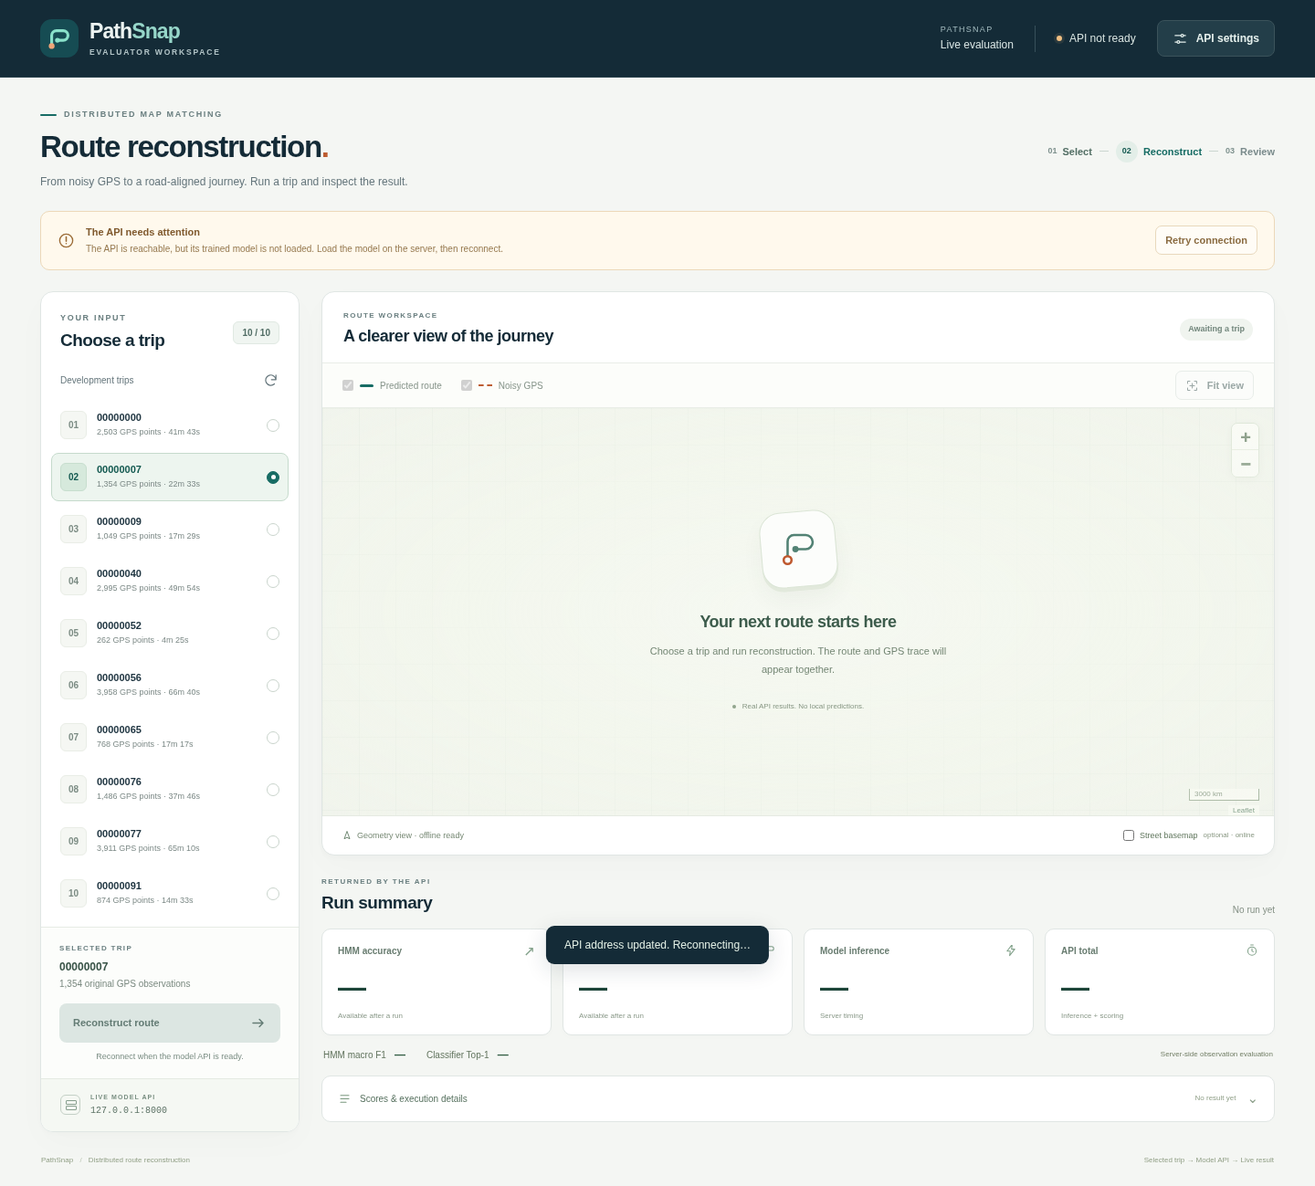
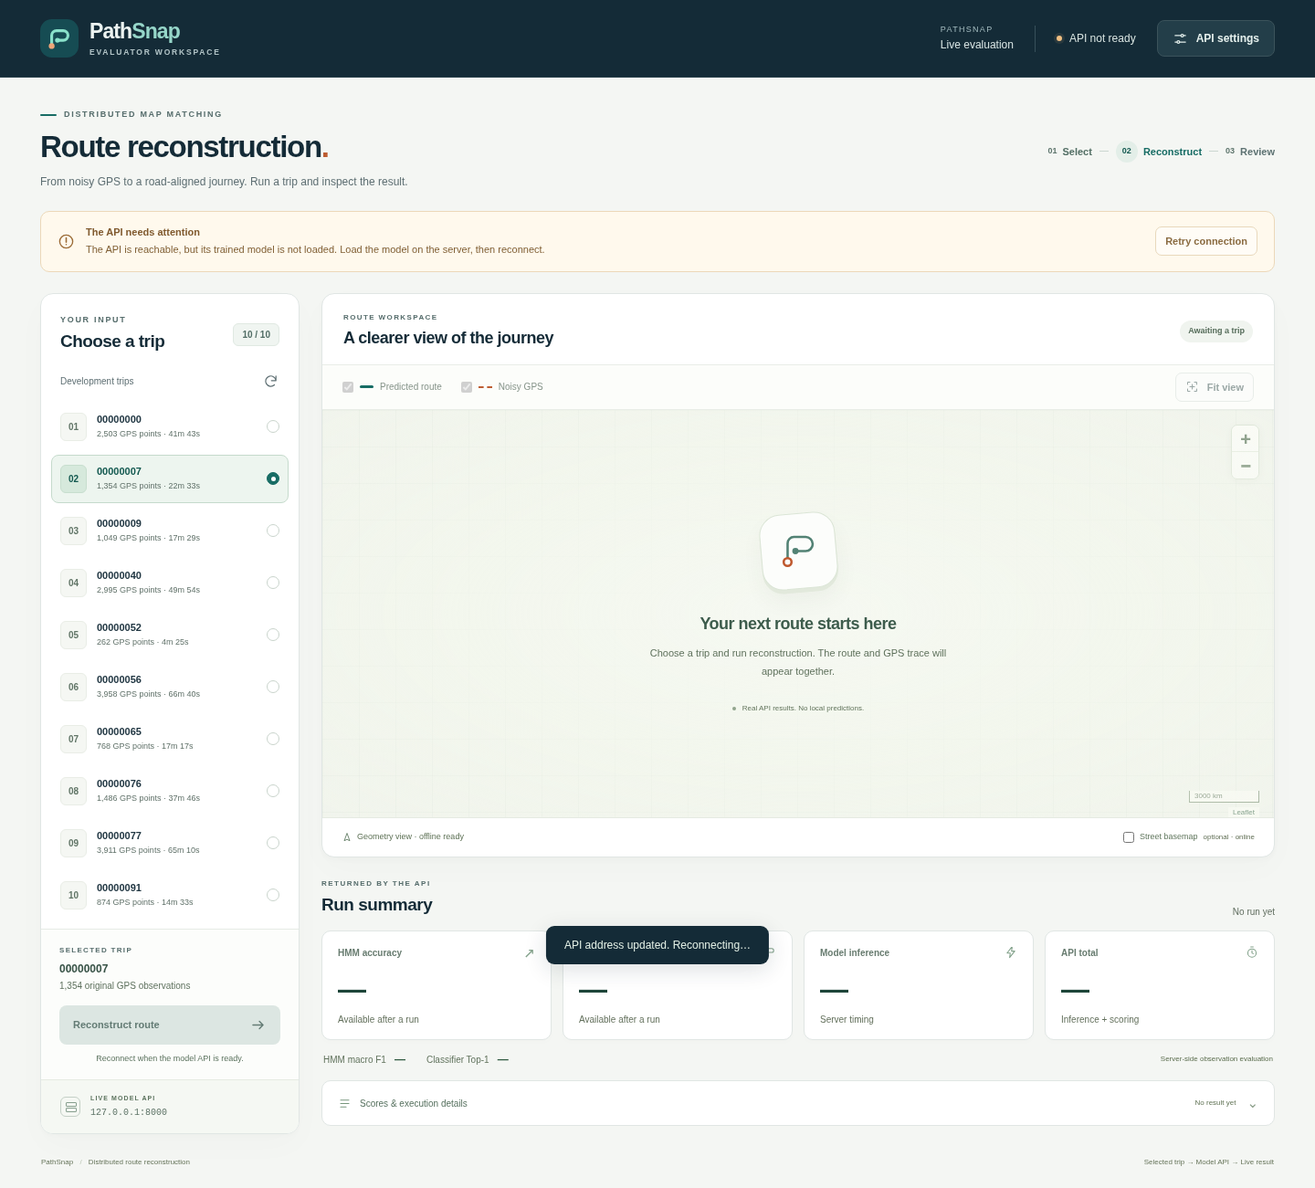
fix: improve evaluator text contrast and record actual responsive checks

diff --git a/frontend/styles.css b/frontend/styles.css
@@ -2,7 +2,7 @@
 :root {
   --navy: #142b37;
   --ink: #203642;
-  --muted: #65767c;
+  --muted: #5e6f73;
   --subtle: #849198;
   --teal: #176c64;
   --teal-dark: #12584f;
@@ -76,15 +76,15 @@ h1, h2, h3 { font-weight: 650; }
 .icon-button:disabled { opacity: .45; }
 .workspace { max-width: 1568px; margin: 0 auto; padding: 34px 44px 0; }
 .page-intro { display: flex; justify-content: space-between; align-items: center; gap: 24px; margin-bottom: 29px; }
-.eyebrow { display: flex; align-items: center; gap: 8px; color: #6a7f80; font-size: 9px; font-weight: 700; line-height: 1.5; letter-spacing: 1.7px; }
+.eyebrow { display: flex; align-items: center; gap: 8px; color: #566d6c; font-size: 9px; font-weight: 700; line-height: 1.5; letter-spacing: 1.7px; }
 .eyebrow-line { width: 18px; height: 2px; border-radius: 2px; background: var(--teal); }
 h1 { margin-top: 7px; color: var(--navy); font-size: clamp(27px, 2.3vw, 35px); font-weight: 660; letter-spacing: -1.35px; line-height: 1.24; }
 .title-period { color: var(--orange); }
 .intro-copy { color: var(--muted); font-size: 12px; margin-top: 9px; }
 .workflow { list-style: none; display: flex; align-items: center; margin: 5px 0 0; padding: 0; gap: 26px; }
-.workflow li { display: flex; gap: 6px; align-items: center; color: #7a8b8c; font-size: 11px; font-weight: 550; white-space: nowrap; position: relative; }
+.workflow li { display: flex; gap: 6px; align-items: center; color: #5d7272; font-size: 11px; font-weight: 550; white-space: nowrap; position: relative; }
 .workflow li+li::before { content: ""; position: absolute; left: -18px; width: 10px; height: 1px; background: #cbd6d0; }
-.workflow li>span { font-size: 9px; font-variant-numeric: tabular-nums; color: #7e918e; border-radius: 50%; }
+.workflow li>span { font-size: 9px; font-variant-numeric: tabular-nums; color: #5e756d; border-radius: 50%; }
 .workflow .is-current { color: var(--teal); }
 .workflow .is-current>span { display: inline-flex; justify-content: center; align-items: center; width: 24px; height: 24px; background: #e3eee8; color: var(--teal-dark); }
 .workflow .is-done { color: #536f65; }
@@ -105,38 +105,38 @@ h1 { margin-top: 7px; color: var(--navy); font-size: clamp(27px, 2.3vw, 35px); f
 .trip-option:has(input:focus-visible) { outline: 3px solid #ba6a35; outline-offset: 1px; }
 .trip-option:has(input:disabled) { cursor: not-allowed; opacity: .66; }
 .trip-option input { position: absolute; opacity: 0; width: 1px; height: 1px; }
-.trip-ordinal { display: flex; align-items: center; justify-content: center; width: 29px; height: 31px; flex: 0 0 29px; background: #f5f7f3; border: 1px solid #e9ede6; border-radius: 6px; font-size: 10px; font-weight: 650; color: #7c8c84; font-variant-numeric: tabular-nums; }
+.trip-ordinal { display: flex; align-items: center; justify-content: center; width: 29px; height: 31px; flex: 0 0 29px; background: #f5f7f3; border: 1px solid #e9ede6; border-radius: 6px; font-size: 10px; font-weight: 650; color: #617567; font-variant-numeric: tabular-nums; }
 .trip-copy { min-width: 0; flex: 1; display: flex; flex-direction: column; gap: 2px; }
 .trip-id { font-size: 11px; font-weight: 650; overflow-wrap: anywhere; line-height: 1.35; }
-.trip-metadata { color: #7d8a87; font-size: 9px; font-variant-numeric: tabular-nums; }
+.trip-metadata { color: #61726a; font-size: 9px; font-variant-numeric: tabular-nums; }
 .trip-radio { width: 14px; height: 14px; flex: 0 0 14px; border: 1px solid #c9d4cc; border-radius: 50%; position: relative; }
 .trip-option:has(input:checked) .trip-radio { background: var(--teal); border-color: var(--teal); }
 .trip-option:has(input:checked) .trip-radio::after { content: ""; position: absolute; width: 5px; height: 5px; background: white; border-radius: 50%; top: 3.5px; left: 3.5px; }
-.list-state { min-height: 260px; padding: 30px 16px; display: flex; flex-direction: column; align-items: center; justify-content: center; gap: 12px; color: #72857e; text-align: center; font-size: 12px; }
+.list-state { min-height: 260px; padding: 30px 16px; display: flex; flex-direction: column; align-items: center; justify-content: center; gap: 12px; color: #5a7164; text-align: center; font-size: 12px; }
 .list-state strong { color: #435d53; font-size: 13px; }
 .list-state .button { margin-top: 5px; }
 .trip-run-area { border-top: 1px solid #e6ebe5; background: #fcfdfb; padding: 17px 20px 16px; }
 .selected-summary { display: flex; flex-direction: column; gap: 2px; margin-bottom: 14px; }
 .selected-summary .eyebrow { font-size: 8px; letter-spacing: 1.3px; }
 .selected-summary strong { margin-top: 3px; font-size: 12px; color: #385347; overflow-wrap: anywhere; }
-#selection-detail { font-size: 10px; color: #7b8a81; }
+#selection-detail { font-size: 10px; color: #5f725f; }
 .trip-run-area .button-primary { width: 100%; justify-content: space-between; min-height: 43px; padding-inline: 14px; font-size: 11px; }
 .trip-run-area .button-text { width: 100%; min-height: 32px; padding-block: 6px; font-size: 11px; margin-top: 5px; }
-.run-help { color: #7a8d83; text-align: center; font-size: 9px; margin-top: 9px; }
+.run-help { color: #5c735f; text-align: center; font-size: 9px; margin-top: 9px; }
 .api-footer { padding: 15px 21px; display: flex; gap: 11px; align-items: center; background: #f5f8f3; border-top: 1px solid #e5ebe2; }
 .api-node { width: 22px; height: 22px; border: 1px solid #c4d0c6; border-radius: 6px; position: relative; flex-shrink: 0; }
 .api-node::before, .api-node::after { content: ""; position: absolute; left: 5px; width: 10px; height: 3px; border: 1px solid #879f8e; border-radius: 1px; }
 .api-node::before { top: 5px; }
 .api-node::after { top: 11px; }
 .api-footer>div { min-width: 0; display: flex; flex-direction: column; gap: 2px; }
-.api-footer>div>span:first-child { color: #7b9083; font-size: 7px; font-weight: 650; letter-spacing: 1.1px; }
+.api-footer>div>span:first-child { color: #5d745f; font-size: 7px; font-weight: 650; letter-spacing: 1.1px; }
 #api-host { color: #5e7467; font-size: 10px; overflow: hidden; text-overflow: ellipsis; white-space: nowrap; }
 .main-column { min-width: 0; }
 .map-panel { overflow: hidden; }
 .map-heading { display: flex; justify-content: space-between; align-items: center; gap: 14px; padding: 20px 23px 15px; }
 .map-heading .eyebrow { font-size: 8px; letter-spacing: 1.4px; }
 .map-heading h2 { color: var(--navy); font-size: 18px; letter-spacing: -.5px; margin-top: 3px; }
-.pill { border-radius: 20px; padding: 5px 9px; font-size: 9px; font-weight: 550; color: #73877d; background: #f0f4ef; white-space: nowrap; }
+.pill { border-radius: 20px; padding: 5px 9px; font-size: 9px; font-weight: 550; color: #556c5a; background: #f0f4ef; white-space: nowrap; }
 .pill[data-state="complete"] { color: var(--teal-dark); background: #e8f3ea; }
 .pill[data-state="loading"] { color: #96613b; background: #fcf1e5; }
 .pill[data-state="error"] { color: #a94d30; background: #fbeee7; }
@@ -155,15 +155,15 @@ h1 { margin-top: 7px; color: var(--navy); font-size: clamp(27px, 2.3vw, 35px); f
 .empty-route-icon { width: 83px; height: 83px; border-radius: 23px; border: 1px solid #dbe5d6; box-shadow: 0 4px 0 #e2e9dc, 0 13px 25px rgb(53 80 57 / 5%); color: #528274; display: flex; justify-content: center; align-items: center; background: #fcfdfb; margin-bottom: 25px; transform: rotate(-5deg); }
 .empty-route-icon svg { width: 55px; height: 55px; transform: rotate(5deg); }
 .map-empty h3, .map-loading h3, .map-failure h3 { color: #3d5c4c; font-size: 18px; font-weight: 600; letter-spacing: -.5px; }
-.map-empty>p, .map-loading>p, .map-failure>p { margin-top: 9px; color: #758775; font-size: 11px; line-height: 1.8; max-width: 350px; }
-.empty-caption { display: flex; align-items: center; gap: 7px; color: #879784; font-size: 8px; margin-top: 24px; }
+.map-empty>p, .map-loading>p, .map-failure>p { margin-top: 9px; color: #60725d; font-size: 11px; line-height: 1.8; max-width: 350px; }
+.empty-caption { display: flex; align-items: center; gap: 7px; color: #62745c; font-size: 8px; margin-top: 24px; }
 .empty-caption>span { width: 4px; height: 4px; border-radius: 50%; background: #91a58d; }
 .map-loading { z-index: 700; background: rgb(246 249 242 / 96%); }
 .loading-orbit { width: 48px; height: 48px; border-radius: 50%; border: 1px solid #c7dbca; position: relative; margin-bottom: 22px; animation: spin 2s linear infinite; }
 .loading-orbit::before { content: ""; position: absolute; inset: 9px; border-radius: 50%; border: 1px dashed #b8cdbb; }
 .loading-orbit>span { position: absolute; width: 8px; height: 8px; border-radius: 50%; background: var(--teal); top: -4px; left: calc(50% - 4px); box-shadow: 0 0 0 4px #e1ede1; }
 .elapsed-label { font-size: 11px; color: #4a6f5d; border: 1px solid #dce5d5; background: #f9fcf6; padding: 5px 13px; border-radius: 6px; margin-top: 17px; font-variant-numeric: tabular-nums; }
-.map-loading .loading-note { color: #879582; font-size: 9px; margin-top: 20px; }
+.map-loading .loading-note { color: #61735b; font-size: 9px; margin-top: 20px; }
 .map-failure { z-index: 800; background: rgb(246 248 241 / 96%); }
 .map-run-label { position: absolute; z-index: 500; top: 16px; left: 16px; display: flex; align-items: center; gap: 8px; padding: 8px 11px; background: rgb(255 255 255 / 96%); color: #355d4c; font-size: 10px; font-weight: 550; border: 1px solid #dce6d7; border-radius: 7px; box-shadow: 0 2px 8px rgb(20 44 27 / 5%); max-width: calc(100% - 100px); overflow-wrap: anywhere; pointer-events: none; }
 .map-run-label .status-dot { background: var(--teal); }
@@ -176,11 +176,11 @@ h1 { margin-top: 7px; color: var(--navy); font-size: clamp(27px, 2.3vw, 35px); f
 .leaflet-tooltip.endpoint-tooltip.endpoint-tooltip-end { background: var(--navy); }
 .leaflet-tooltip.endpoint-tooltip::before { display: none; }
 .map-footer { min-height: 43px; display: flex; align-items: center; justify-content: space-between; gap: 14px; padding: 10px 21px; border-top: 1px solid #e5eae2; }
-.geometry-mode { display: inline-flex; align-items: center; gap: 5px; color: #778974; font-size: 9px; }
+.geometry-mode { display: inline-flex; align-items: center; gap: 5px; color: #5d7155; font-size: 9px; }
 .geometry-mode svg { width: 12px; height: 12px; color: #6e8770; }
 .basemap-toggle { display: inline-flex; align-items: center; gap: 6px; color: #62785f; font-size: 9px; cursor: pointer; }
 .basemap-toggle input { width: 12px; height: 12px; accent-color: var(--teal); margin: 0; cursor: pointer; }
-.optional-label { color: #8a9984; font-size: 8px; }
+.optional-label { color: #627056; font-size: 8px; }
 .leaflet-control-zoom.leaflet-bar { border: 1px solid #d4dfcf; border-radius: 7px; box-shadow: 0 2px 8px rgb(32 59 36 / 6%); overflow: hidden; }
 .leaflet-control-zoom.leaflet-bar a { color: #506c50; width: 29px; height: 29px; line-height: 29px; background: #fdfefb; }
 .leaflet-control-zoom.leaflet-bar a:hover { background: #edf3e7; }
@@ -195,7 +195,7 @@ h1 { margin-top: 7px; color: var(--navy); font-size: clamp(27px, 2.3vw, 35px); f
 .section-heading { display: flex; align-items: flex-end; justify-content: space-between; gap: 14px; margin-bottom: 13px; }
 .section-heading .eyebrow { font-size: 8px; letter-spacing: 1.5px; }
 .section-heading h2 { color: var(--navy); font-size: 19px; margin-top: 3px; letter-spacing: -.5px; }
-.results-state { font-size: 10px; color: #859186; text-align: right; }
+.results-state { font-size: 10px; color: #626f61; text-align: right; }
 .metric-grid { display: grid; grid-template-columns: repeat(4, minmax(0,1fr)); gap: 12px; }
 .metric-card { min-width: 0; padding: 16px 17px 14px; background: white; border: 1px solid var(--border); border-radius: 10px; box-shadow: 0 3px 6px rgb(23 43 47 / 1%); }
 .metric-topline { display: flex; align-items: center; justify-content: space-between; gap: 7px; }
@@ -204,17 +204,17 @@ h1 { margin-top: 7px; color: var(--navy); font-size: clamp(27px, 2.3vw, 35px); f
 .metric-icon { width: 14px; height: 14px; color: #83a28b; }
 .metric-value { color: #1d4539; margin-top: 14px; font-size: clamp(24px, 2.2vw, 31px); font-weight: 630; font-variant-numeric: tabular-nums; letter-spacing: -.9px; line-height: 1.2; white-space: nowrap; }
 .metric-value small { font-size: 12px; font-weight: 500; color: #6e8a79; letter-spacing: -.1px; margin-left: 3px; }
-.metric-note { font-size: 8px; color: #8a9989; margin-top: 7px; min-height: 12px; }
-.metric-value.is-na { font-size: 24px; color: #8c9e91; letter-spacing: -.5px; }
+.metric-note { font-size: 10px; color: #64715d; margin-top: 7px; min-height: 15px; }
+.metric-value.is-na { font-size: 24px; color: #637b65; letter-spacing: -.5px; }
 .results-section[aria-busy="true"] .metric-value { opacity: .4; }
 .secondary-scores { display: flex; align-items: center; flex-wrap: wrap; gap: 10px 23px; padding: 12px 2px 0; font-size: 10px; color: #62745e; }
 .secondary-scores>span { display: inline-flex; align-items: baseline; gap: 9px; }
 .secondary-scores strong { color: #315b42; font-size: 12px; font-weight: 650; font-variant-numeric: tabular-nums; }
-.secondary-scores .secondary-caption { font-size: 8px; color: #748068; margin-left: auto; }
+.secondary-scores .secondary-caption { font-size: 8px; color: #5d6f50; margin-left: auto; }
 .results-section[aria-busy="true"] .secondary-scores strong { opacity: .4; }
 .proxy-notice { margin-top: 12px; border-left: 2px solid #c49860; padding: 1px 0 1px 11px; }
 .proxy-notice strong { display: block; color: #8b6b43; font-size: 9px; font-weight: 650; }
-.proxy-notice p { color: #8c806b; font-size: 9px; margin-top: 2px; }
+.proxy-notice p { color: #776344; font-size: 10px; margin-top: 2px; }
 .result-details { margin-top: 14px; border-radius: 10px; box-shadow: none; }
 .result-details summary { min-height: 47px; cursor: pointer; font-size: 10px; color: #57715f; padding: 13px 17px; list-style: none; display: flex; justify-content: space-between; align-items: center; gap: 12px; }
 .result-details summary::-webkit-details-marker { display: none; }
@@ -223,34 +223,34 @@ h1 { margin-top: 7px; color: var(--navy); font-size: clamp(27px, 2.3vw, 35px); f
 .result-details summary::after { content: "⌄"; color: #899d87; margin-left: 0; font-size: 15px; }
 .result-details details[open] summary::after { transform: rotate(180deg); }
 .result-details summary:hover { background: #f9fcf6; border-radius: 10px; }
-.details-hint { margin-left: auto; color: #92a18a; font-size: 8px; }
+.details-hint { margin-left: auto; color: #627456; font-size: 8px; }
 .details-body { display: grid; grid-template-columns: 1fr 1fr; gap: 27px; padding: 18px 21px 22px; border-top: 1px solid #e6ebe1; }
 .details-body>div { min-width: 0; }
 .details-body h3 { font-size: 11px; color: #4a6752; }
-.details-explanation { font-size: 9px; line-height: 1.7; color: #8a9782; margin-top: 4px; }
-.data-list { margin: 12px 0 0; font-size: 10px; }
+.details-explanation { font-size: 11px; line-height: 1.7; color: #64745c; margin-top: 4px; }
+.data-list { margin: 12px 0 0; font-size: 11px; }
 .data-list>div { display: flex; gap: 12px; align-items: baseline; justify-content: space-between; padding: 7px 0; border-bottom: 1px solid #edf1e8; }
 .data-list>div:last-child { border-bottom: none; }
-.data-list dt { color: #7b8a71; }
+.data-list dt { color: #627158; }
 .data-list dd { margin: 0; font-weight: 550; text-align: right; color: #3e5e43; max-width: 59%; overflow-wrap: anywhere; font-variant-numeric: tabular-nums; }
 .execution-list { margin-top: 8px; }
 .execution-list .hash-value { font-size: 8px; }
 .execution-note { margin-top: 11px; }
-.metric-notes { padding: 9px 11px; border-radius: 6px; background: #f7f8f1; color: #7d8066; font-size: 9px; margin-top: 12px; }
+.metric-notes { padding: 9px 11px; border-radius: 6px; background: #f7f8f1; color: #646747; font-size: 9px; margin-top: 12px; }
 .metric-notes p+p { margin-top: 6px; }
 .notice { display: flex; gap: 12px; align-items: center; border: 1px solid #ecd8b9; background: #fff9ed; color: #9b6b36; padding: 14px 18px; border-radius: 10px; }
 .notice>svg { width: 19px; height: 19px; }
 .notice>div { flex: 1; min-width: 0; }
 .notice h2 { color: #805a2f; font-size: 11px; font-weight: 650; }
-.notice p { color: #96794f; font-size: 10px; line-height: 1.7; margin-top: 2px; overflow-wrap: anywhere; }
+.notice p { color: #805f34; font-size: 11px; line-height: 1.7; margin-top: 2px; overflow-wrap: anywhere; }
 .connection-notice { margin: -6px 0 23px; }
 .connection-notice .button { color: #8b6c42; border-color: #e8d8bc; background: #fffcf6; white-space: nowrap; }
 .connection-notice .button:hover { background: #f8efdf; }
 .run-notice { margin-top: 17px; align-items: flex-start; }
 .run-notice[data-tone="error"] { background: #fff5ef; border-color: #edd7ca; color: #b2633f; }
 .run-notice[data-tone="error"] h2 { color: #9a5031; }
-.run-notice[data-tone="error"] p { color: #9b745c; }
-.workspace-footer { display: flex; align-items: center; justify-content: space-between; color: #92a087; font-size: 8px; gap: 16px; padding: 25px 1px 22px; }
+.run-notice[data-tone="error"] p { color: #815d42; }
+.workspace-footer { display: flex; align-items: center; justify-content: space-between; color: #67755b; font-size: 8px; gap: 16px; padding: 25px 1px 22px; }
 .workspace-footer>span:first-child>span { margin-inline: 5px; color: #bcc6b5; }
 .settings-dialog { width: min(490px, calc(100% - 32px)); padding: 0; color: var(--ink); border: 1px solid #d7e1d5; border-radius: 17px; box-shadow: 0 24px 100px rgb(18 39 35 / 25%); max-height: calc(100dvh - 48px); overflow-y: auto; }
 .settings-dialog::backdrop { background: rgb(15 34 42 / 47%); backdrop-filter: blur(3px); }
@@ -260,7 +260,7 @@ h1 { margin-top: 7px; color: var(--navy); font-size: clamp(27px, 2.3vw, 35px); f
 .dialog-icon svg { width: 24px; height: 24px; }
 .dialog-heading .icon-button { margin-right: -7px; margin-top: -7px; }
 .settings-dialog h2 { color: var(--navy); font-size: 24px; letter-spacing: -.7px; margin-top: 5px; }
-#settings-description { font-size: 12px; line-height: 1.8; color: #7a8a7d; margin-top: 10px; }
+#settings-description { font-size: 12px; line-height: 1.8; color: #5d735e; margin-top: 10px; }
 .field-label { display: block; color: #4d6854; font-size: 11px; font-weight: 650; margin-top: 24px; margin-bottom: 7px; }
 .settings-dialog input[type="url"] { width: 100%; min-height: 44px; padding: 11px 12px; border: 1px solid #ccd9ca; background: #fcfef9; color: #365a40; border-radius: 7px; font-size: 12px; }
 .settings-dialog input::placeholder { color: #97a590; }
@@ -273,10 +273,10 @@ h1 { margin-top: 7px; color: var(--navy); font-size: clamp(27px, 2.3vw, 35px); f
 .field-error { color: #a85330; font-size: 11px; line-height: 1.6; margin-top: 8px; }
 .connection-tip { padding: 13px 15px; margin-top: 20px; border-radius: 8px; border: 1px solid #e5e9db; background: #f8faf3; }
 .connection-tip strong { color: #667b57; font-size: 10px; font-weight: 650; }
-.connection-tip p { margin-top: 4px; color: #839075; font-size: 10px; line-height: 1.8; }
+.connection-tip p { margin-top: 4px; color: #667751; font-size: 10px; line-height: 1.8; }
 .dialog-actions { display: flex; gap: 10px; justify-content: flex-end; margin-top: 24px; }
 .dialog-actions .button { min-height: 40px; }
-.dialog-footnote { text-align: center; font-size: 8px; color: #9aa58c; margin-top: 17px; }
+.dialog-footnote { text-align: center; font-size: 8px; color: #6b775b; margin-top: 17px; }
 .toast { position: fixed; z-index: 2000; bottom: 24px; left: 50%; transform: translateX(-50%); background: var(--navy); color: #e1eee4; font-size: 12px; padding: 12px 20px; border-radius: 9px; box-shadow: 0 6px 25px rgb(20 43 55 / 14%); max-width: calc(100% - 32px); }
 .noscript-notice { position: fixed; z-index: 3000; inset: auto 16px 16px; border-radius: 10px; background: #fff0e5; color: #995332; border: 1px solid #e5b89c; padding: 20px; text-align: center; }
 .spinner { display: inline-block; width: 18px; height: 18px; border: 2px solid currentColor; border-right-color: transparent; border-radius: 50%; animation: spin .75s linear infinite; }
@@ -425,8 +425,8 @@ h1 { margin-top: 7px; color: var(--navy); font-size: clamp(27px, 2.3vw, 35px); f
   .trip-list { max-height: 216px; display: grid; grid-template-columns: repeat(2,minmax(0,1fr)); align-content: start; gap: 5px; padding: 2px 10px 12px; }
   .trip-option { min-height: 61px; gap: 7px; align-items: flex-start; padding: 10px 8px; background: #fbfcf9; border-color: #e9ede4; }
   .trip-ordinal { width: 21px; flex-basis: 21px; height: 25px; font-size: 8px; margin-top: 1px; }
-  .trip-id { font-size: 9px; }
-  .trip-metadata { font-size: 8px; margin-top: 2px; }
+  .trip-id { font-size: 11px; }
+  .trip-metadata { font-size: 9px; margin-top: 2px; }
   .trip-radio { width: 11px; height: 11px; flex-basis: 11px; position: absolute; top: 7px; right: 6px; }
   .trip-option:has(input:checked) .trip-radio::after { width: 3px; height: 3px; top: 3px; left: 3px; }
   .trip-copy { padding-right: 4px; }
@@ -435,7 +435,7 @@ h1 { margin-top: 7px; color: var(--navy); font-size: clamp(27px, 2.3vw, 35px); f
   .selected-summary strong { font-size: 10px; margin-top: 3px; }
   .selected-summary .eyebrow { font-size: 7px; }
   #selection-detail { font-size: 8px; margin-top: 2px; }
-  .trip-run-area .button-primary { grid-column: 2; grid-row: 1; min-height: 40px; font-size: 9px; gap: 5px; }
+  .trip-run-area .button-primary { grid-column: 2; grid-row: 1; min-height: 40px; font-size: 10px; gap: 5px; }
   .trip-run-area .button-text { grid-column: 2; grid-row: 2; font-size: 9px; min-height: 27px; margin: 0; }
   .run-help { grid-column: 1 / -1; margin-top: 2px; font-size: 8px; }
   .trip-run-area:has(#cancel-match:not([hidden])) .run-help { grid-column: 1; grid-row: 2; text-align: left; }
@@ -473,7 +473,7 @@ h1 { margin-top: 7px; color: var(--navy); font-size: clamp(27px, 2.3vw, 35px); f
   .metric-topline h3 { font-size: 10px; }
   .metric-topline .metric-icon, .metric-symbol { display: block; }
   .metric-value { font-size: 30px; margin-top: 11px; }
-  .metric-note { font-size: 8px; }
+  .metric-note { font-size: 10px; }
   .secondary-scores { gap: 8px 18px; font-size: 9px; padding-top: 12px; }
   .secondary-scores strong { font-size: 11px; }
   .secondary-scores .secondary-caption { margin-left: 0; flex-basis: 100%; font-size: 8px; }
@@ -483,7 +483,7 @@ h1 { margin-top: 7px; color: var(--navy); font-size: clamp(27px, 2.3vw, 35px); f
   .details-body { grid-template-columns: 1fr; gap: 20px; padding: 18px 17px; }
   .notice { padding: 13px 14px; gap: 10px; }
   .notice h2 { font-size: 10px; }
-  .notice p { font-size: 9px; }
+  .notice p { font-size: 10px; }
   .notice>svg { width: 17px; height: 17px; }
   .connection-notice .button { margin-left: 27px; }
   .workspace-footer { font-size: 7px; }

diff --git a/frontend/README.md b/frontend/README.md
@@ -105,7 +105,9 @@ node frontend/smoke.mjs --api https://ml.d3va.dev
 node frontend/smoke.mjs --api https://ml.d3va.dev --match-first
 ~~~
 
-Independent adapter unit checks live in the repository’s test scope, maintained by the verification teammate. Real browser/network verification and screenshots must be captured from an actual running deployment; no screenshot or successful inference is claimed by this README.
+Independent adapter unit checks live in the repository’s test scope, maintained by the verification teammate. The optional [browser_check.py](<browser_check.py>) uses separately installed Playwright/Chromium against an already-running deployment; it never starts a server or injects responses. Example: `python3 -B frontend/browser_check.py --url http://127.0.0.1:8000`.
+
+Genuine local browser checks were performed against the actual backend at http://127.0.0.1:8000 while it correctly reported a missing model/configuration. They verified all ten real API trip options, a disabled inference action with explicit readiness notice, local Leaflet initialization, keyboard radio selection, modal Tab/Escape/focus behavior, API URL validation/reset, and no horizontal overflow at 320/390/768 pixels. No browser console errors or external default requests were observed. The [machine-readable record](<validation/browser-check.json>), [desktop capture](<validation/desktop-not-ready.png>), and [390-pixel mobile capture](<validation/mobile-390-not-ready.png>) describe this not-ready state; they do **not** claim a successful model run. The image-input tool was unavailable for pixel inspection; screenshots were captured by the real browser and layout was verified through DOM dimensions. Final model-ready/public-HTTPS route runs and captures remain separate integration evidence.
 
 ## Third-party assets
 
